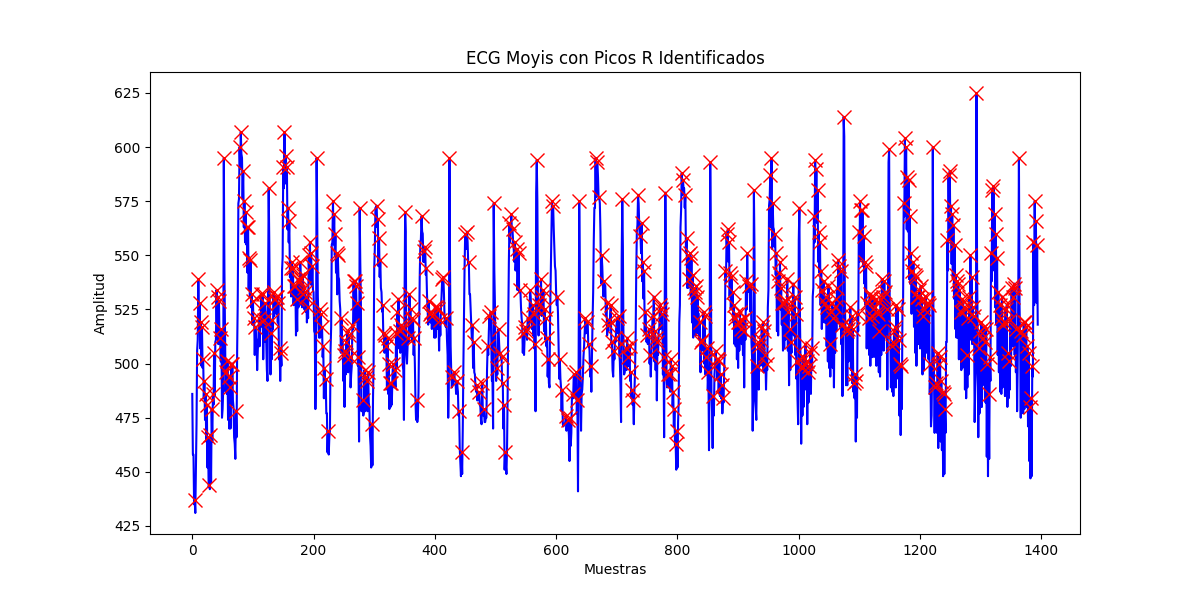
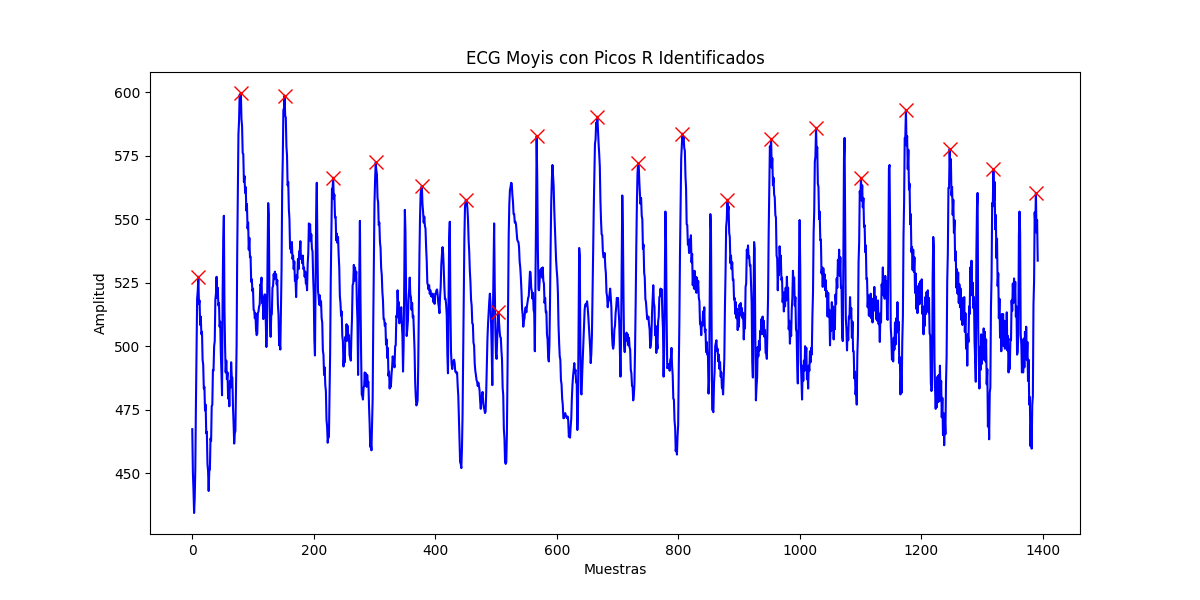
Solucionamos los errores en el pulso

diff --git a/ECGAnalisis/ECG2/ECG2.py b/ECGAnalisis/ECG2/ECG2.py
@@ -21,51 +21,65 @@ class ECG2:
         return self.data_path[15:-6]
     
 
+    def get_num_segments(self, cleaned_signal, seconds=10, sampling_rate=100):
+        window_size = sampling_rate * seconds
+        num_samples = len(cleaned_signal)
+        num_segments = num_samples // window_size
+        return num_segments
+    
+
     #Metodo para aplicar un filtro de media móvil, suavizar la señal y eliminar el ruido
-    def data_cleaning(self): 
-        window_size = 3
-        df_smoothed = self.df.rolling(window=window_size).mean().dropna()
-        #Normalizamos los datos para que estén en un rango de 0 a 1
-        df_normalized = (df_smoothed - df_smoothed.min()) / (df_smoothed.max() - df_smoothed.min())
-        #Eliminamos las señales que de las que no hemos recogido datos
-        df_normalized = df_normalized.drop(['I1', 'I2', 'O1', 'O2'], axis=1)
-        return df_normalized   
+    def data_cleaning(self, window_size=3): 
+        cleaned_signal = self.df.rolling(window=window_size).mean().dropna()
+        return cleaned_signal   
 
 
     #Metodo para graficar la señal de ECG y los picos R identificados
-    def plot_peaks(self):
-        ecg_data = self.df['A2'].values 
-        # Encuentramos los picos R en la señal de ECG
-        self.peaks, _ = find_peaks(ecg_data, height=0)  # Ajusta el valor de altura según tu señal
-        #Guardamos la grafica del ECG y los picos
-        plt.figure(figsize=(12, 6))
-        plt.plot(ecg_data, color='blue')
-        plt.plot(self.peaks, ecg_data[self.peaks], "x", color='red', markersize=10)
-        plt.title('ECG {} con Picos R Identificados'.format(self.get_name()))
-        plt.xlabel('Muestras')
-        plt.ylabel('Amplitud')
-        plt.savefig('./ECGAnalisis/ECG2/img/{}_ECG_peaks.png'.format(self.get_name()))
+    def plot_peaks(self, sampling_rate=100):
+        cleaned_signal = self.data_cleaning()['A2'].values
+
+        num_segments = self.get_num_segments(cleaned_signal)
+
+        if num_segments > 0:
+            segments = np.array_split(cleaned_signal, num_segments)
+            heart_rates = []
+
+            for i, segment in enumerate(segments):
+                peaks, _ = find_peaks(segment, distance=sampling_rate/2)
+                heart_rate = self.get_cardio_freq(peaks, sampling_rate)
+                heart_rates.append(heart_rate)
+                #Guardamos la grafica del ECG y los picos
+                plt.figure(figsize=(12, 6))
+                plt.plot(segment, color='blue')
+                plt.plot(peaks, segment[peaks], "x", color='red', markersize=10)
+
+            plt.title('ECG {} con Picos R Identificados'.format(self.get_name()))
+            plt.xlabel('Muestras')
+            plt.ylabel('Amplitud')
+            plt.savefig('./ECGAnalisis/ECG2/img/{}_ECG_peaks.png'.format(self.get_name()))
+            avg_heart_rate = np.mean(heart_rates)
+            print('Frecuencia cardiaca media {}: {} latidos por minuto'.format(self.get_name(), avg_heart_rate))
+        else:
+            print(f'No hay suficientes datos de {self.get_name()} para formar 10 s.')
     
 
     #Metodo para obtener la frecuencia cardíaca
-    def get_cardio_freq(self, tiempo):
-        num_muestras = self.df.shape[0]
-        frecuencia_muestreo = num_muestras / tiempo  
-        # Calcula la frecuencia cardíaca utilizando los picos de la señal
-        tiempo_entre_picos = np.diff(self.peaks)
-        frecuencia_cardiaca = 60 / (np.mean(tiempo_entre_picos) / frecuencia_muestreo)
+    def get_cardio_freq(self, peaks, sampling_rate=100):
+        # Calculamos la frecuencia cardíaca utilizando los picos de la señal
+        rr_intervals = np.diff(peaks) / sampling_rate
+        frecuencia_cardiaca = 60 / np.mean(rr_intervals)
         return round(frecuencia_cardiaca)
 
     
     #Metodo para obtener los resultados de cada usuario
     def get_results(self):
         directory = './csv/ECG2/'
-        files = os.listdir('./csv/ECG2/')
+        files = os.listdir(directory)
         for file in files:
             dir_ = directory + file
             ecg2 = ECG2(dir_)
-            ecg2.plot_peaks()
-            print("Frecuencia cardiaca {}: {} latidos por minuto".format(ecg2.get_name(), ecg2.get_cardio_freq(360)))
+            ecg2.plot_peaks()    
+
 
 
 if __name__ == '__main__':
